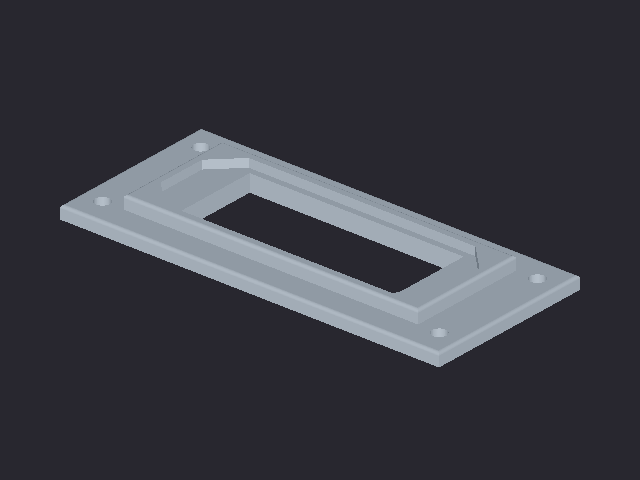
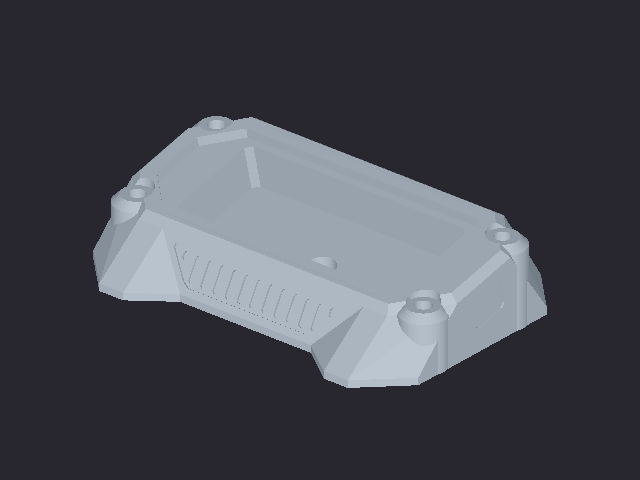
Three-line title, full-screen spin finale, detailed switch mount
- Hero title stacks as three lines (Describe it. / Shape it. / Make it.) so the
  huge type no longer wraps awkwardly and "Make it." lines up under "Shape it."
- Demo ends with the finished part full-screen, rotating: a looping turntable
  (MP4, 36 frames) rendered by driving the app's own viewer (setSpinY +
  snapshot) so it matches the app's look exactly. Pauses for reduced motion.
- Marketplace Sci-Fi Switch Flush Mount now uses the detailed branch tip
  (rev 13, "Angled ergonomic sci-fi flush tray") instead of the plain frame.

diff --git a/script.js b/script.js
@@ -14,13 +14,15 @@
     const userMsgs = [...demo.querySelectorAll('.d-msg.user')];
     const botMsgs = [...demo.querySelectorAll('.d-msg.bot')];
     const PROMPTS = ['create a snap-fit enclosure for a Raspberry Pi 5', 'make the cooling vents hexagonal'];
+    const spinVid = demo.querySelector('.demo-spin-vid');
+    if (reduce) spinVid?.pause();
     let token = 0;
 
     const scrollDown = () => thread.scrollTo({ top: thread.scrollHeight, behavior: 'smooth' });
     const reveal = el => { el.hidden = false; requestAnimationFrame(() => el.classList.add('show')); };
 
     function resetDemo() {
-      demo.classList.remove('typing');
+      demo.classList.remove('typing', 'spinning');
       typedEl.textContent = '';
       for (const el of [...userMsgs, ...botMsgs]) { el.hidden = true; el.classList.remove('show'); }
       for (const c of demo.querySelectorAll('.d-card')) c.classList.add('building');
@@ -47,8 +49,12 @@
         const bot = botMsgs[i]; reveal(bot); scrollDown();            // assistant reply (text + building card)
         await sleep(1500); if (!alive()) return;
         bot.querySelector('.d-card').classList.remove('building'); scrollDown();   // the model arrives
-        await sleep(i < PROMPTS.length - 1 ? 1700 : 5200); if (!alive()) return;
+        await sleep(i < PROMPTS.length - 1 ? 1700 : 1300); if (!alive()) return;
       }
+      demo.classList.add('spinning'); spinVid && spinVid.play().catch(() => {});   // full-window spin of the finished part
+      await sleep(5000); if (!alive()) return;
+      demo.classList.remove('spinning');
+      await sleep(500); if (!alive()) return;
       run();                                            // loop
     }
 

diff --git a/styles.css b/styles.css
@@ -94,7 +94,7 @@ h1, h2, h3 { line-height: 1.12; letter-spacing: -.02em; margin: 0; }
 .demo-chrome .dot:nth-child(3) { background: #5bc06a; }
 .demo-tab { margin-left: 10px; font-size: 12.5px; color: var(--muted); font-weight: 600; }
 
-.demo { display: flex; flex-direction: column; }
+.demo { display: flex; flex-direction: column; position: relative; }
 .demo-chrome { flex: none; }
 
 /* conversation thread */
@@ -141,6 +141,14 @@ h1, h2, h3 { line-height: 1.12; letter-spacing: -.02em; margin: 0; }
 .demo.typing .demo-caret { opacity: 1; animation: blink 1s steps(1) infinite; }
 @keyframes blink { 50% { opacity: 0; } }
 .demo-send { background: #e9ecee; color: #10130a; border: 0; border-radius: 999px; padding: 7px 14px; font-size: 13px; font-weight: 600; flex: none; }
+
+/* full-window spin at the end of the demo: the finished part, rotating */
+.demo-spin { position: absolute; inset: 0; z-index: 6; display: grid; place-items: center; opacity: 0; visibility: hidden; transition: opacity .5s ease;
+  background: radial-gradient(130% 120% at 50% 32%, #1c1e23 0%, #0e1013 72%); }
+.demo.spinning .demo-spin { opacity: 1; visibility: visible; }
+.demo-spin-vid { width: 100%; height: 100%; object-fit: contain; }
+.demo-spin-tag { position: absolute; bottom: 14px; left: 50%; transform: translateX(-50%); white-space: nowrap; font-size: 12px; color: var(--muted);
+  background: rgba(12, 13, 14, .62); border: 1px solid var(--line); padding: 4px 12px; border-radius: 999px; }
 
 /* ---------- Sections ---------- */
 .section { max-width: var(--maxw); margin: 0 auto; padding: 72px 24px; }

diff --git a/index.html b/index.html
@@ -32,7 +32,7 @@
     <section class="hero">
       <div class="hero-copy">
         <div class="eyebrow">Text to CAD for makers</div>
-        <h1>Describe it. Shape it.<br /><span class="accent">Make it.</span></h1>
+        <h1>Describe it.<br />Shape it.<br /><span class="accent">Make it.</span></h1>
         <p class="lede">
           Shapecraft turns a plain-English prompt into a real, parametric 3D model — one that
           fits real hardware, splits into parts when it needs to, and exports straight to your printer.
@@ -80,6 +80,12 @@
             <span class="demo-placeholder">Describe a change…</span>
           </div>
           <button class="demo-send" type="button" tabindex="-1">Send ↑</button>
+        </div>
+        <div class="demo-spin" aria-hidden="true">
+          <video class="demo-spin-vid" autoplay muted loop playsinline poster="assets/spin-poster.png">
+            <source src="assets/spin.mp4" type="video/mp4" />
+          </video>
+          <span class="demo-spin-tag">Raspberry Pi 5 Enclosure · drag to rotate</span>
         </div>
       </div>
     </section>
